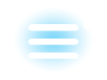
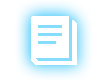
Added also MenuButtonStyles to BV and TE

diff --git a/MediaPortal/Source/UI/TV/SlimTvClient/Skin/BlueVision/themes/Titanium Extended/styles/SlimTvStyles.xaml b/MediaPortal/Source/UI/TV/SlimTvClient/Skin/BlueVision/themes/Titanium Extended/styles/SlimTvStyles.xaml
@@ -233,8 +233,10 @@
                             Command="{Command SeekForward}"/>
                     <Button x:Name="SkipForwardButton" Style="{ThemeResource SkipForwardButtonStyle}" IsVisible="{Binding CanSkipForward}"
                             Command="{Command Next}"/>
-                    <Image Source="topbar_devider.png" Margin="15,0,15,0"/>                                         
-                    <Button x:Name="SelectSubtitleButton" Style="{ThemeResource SelectSubtitleButtonStyle}" Margin="0,0,0,0"
+                    <Image Source="topbar_devider.png" Margin="15,0,15,0"/>
+                    <Button x:Name="SelectMenuButton" Style="{ThemeResource SelectSubtitleButtonStyle}" Margin="0,0,0,0"
+                            Command="{Command Source={StaticResource VideoPlayerModel},Path=PlayerConfigurationDialog.OpenPlayerConfigurationDialog}"/>
+                    <Button x:Name="SelectSubtitleButton" Style="{ThemeResource SelectSubtitleButtonStyle}"
                             IsVisible="{Binding Source={StaticResource VideoPlayerModel},Path=PlayerUIContributor.SubtitlesAvailable}"
                             Command="{Command Source={StaticResource VideoPlayerModel},Path=PlayerUIContributor.OpenChooseSubtitleDialog}"/>
                     <Button x:Name="Audio" Style="{ThemeResource AudioActiveButtonStyle}" Margin="0,0,0,0" IsVisible="{Binding IsAudio}"

diff --git a/MediaPortal/Source/UI/TV/SlimTvClient/Skin/BlueVision/themes/Win10/styles/SlimTvStyles.xaml b/MediaPortal/Source/UI/TV/SlimTvClient/Skin/BlueVision/themes/Win10/styles/SlimTvStyles.xaml
@@ -87,7 +87,6 @@
           <Button x:Name="RecordButton" Style="{ThemeResource RecordButtonStyle}" Command="{Command RecordDialog}"
                   Context="{Model Id=8BEC1372-1C76-484c-8A69-C7F3103708EC}" Margin="{ThemeResource PlayerControlButtonMargins}"/>
           <Button x:Name="SelectMenuButton" Style="{ThemeResource ShowContextMenuButtonStyle}" Margin="{ThemeResource PlayerControlButtonMargins}"
-                  IsVisible="{Binding Source={StaticResource VideoPlayerModel},Path=PlayerUIContributor.TitlesAvailable}"
                   Command="{Command Source={StaticResource VideoPlayerModel},Path=PlayerConfigurationDialog.OpenPlayerConfigurationDialog}"/>
           <Button x:Name="SelectTitleButton" Style="{ThemeResource ShowDvdMenuButtonStyle}" Margin="{ThemeResource PlayerControlButtonMargins}"
                   IsVisible="{Binding Source={StaticResource VideoPlayerModel},Path=PlayerUIContributor.TitlesAvailable}"

diff --git a/MediaPortal/Source/UI/Skins/Titanium Extended/Skin/BlueVision/themes/Titanium Extended/styles/Buttons.xaml b/MediaPortal/Source/UI/Skins/Titanium Extended/Skin/BlueVision/themes/Titanium Extended/styles/Buttons.xaml
@@ -2166,6 +2166,23 @@
     </Setter>
   </Style>
 
+  <Style x:Key="ShowContextMenuButtonStyle" TargetType="{x:Type Button}">
+    <Setter Property="Template">
+      <Setter.Value>
+        <ControlTemplate TargetType="{x:Type Button}">
+          <Grid>
+            <Image x:Name="image" Source="topbar_menu.png" Stretch="Uniform" Height="70" Width="100" Margin="0,0,0,0" VerticalAlignment="Center"/>
+          </Grid>
+          <ControlTemplate.Triggers>
+            <Trigger Property="HasFocus" Value="True">
+              <Setter TargetName="image" Property="Source" Value="topbar_menu_focus.png"/>
+            </Trigger>
+          </ControlTemplate.Triggers>
+        </ControlTemplate>
+      </Setter.Value>
+    </Setter>
+  </Style>
+
   <!-- global buttons -->
   
   <Style x:Key="WindowCloseButtonStyle" BasedOn="{ThemeResource GlobalButtonStyle}">

diff --git a/MediaPortal/Source/UI/Skins/BlueVision/Skin/BlueVision/themes/default/styles/MediaGraphics.xaml b/MediaPortal/Source/UI/Skins/BlueVision/Skin/BlueVision/themes/default/styles/MediaGraphics.xaml
@@ -11,6 +11,10 @@
     <Image Source="PlayerControls.Large\SelectTitleButton.png" Stretch="Uniform" Height="{ThemeResource PlayerControlHeight}" />
   </ControlTemplate>
 
+  <ControlTemplate x:Key="ShowContextMenuControlTemplate">
+    <Image Source="PlayerControls.Large\SelectMenuButton.png" Stretch="Uniform" Height="{ThemeResource PlayerControlHeight}" />
+  </ControlTemplate>
+
   <ControlTemplate x:Key="SelectChapterControlTemplate">
     <Image Source="PlayerControls.Large\SelectChapterButton.png" Stretch="Uniform" Height="{ThemeResource PlayerControlHeight}" />
   </ControlTemplate>
